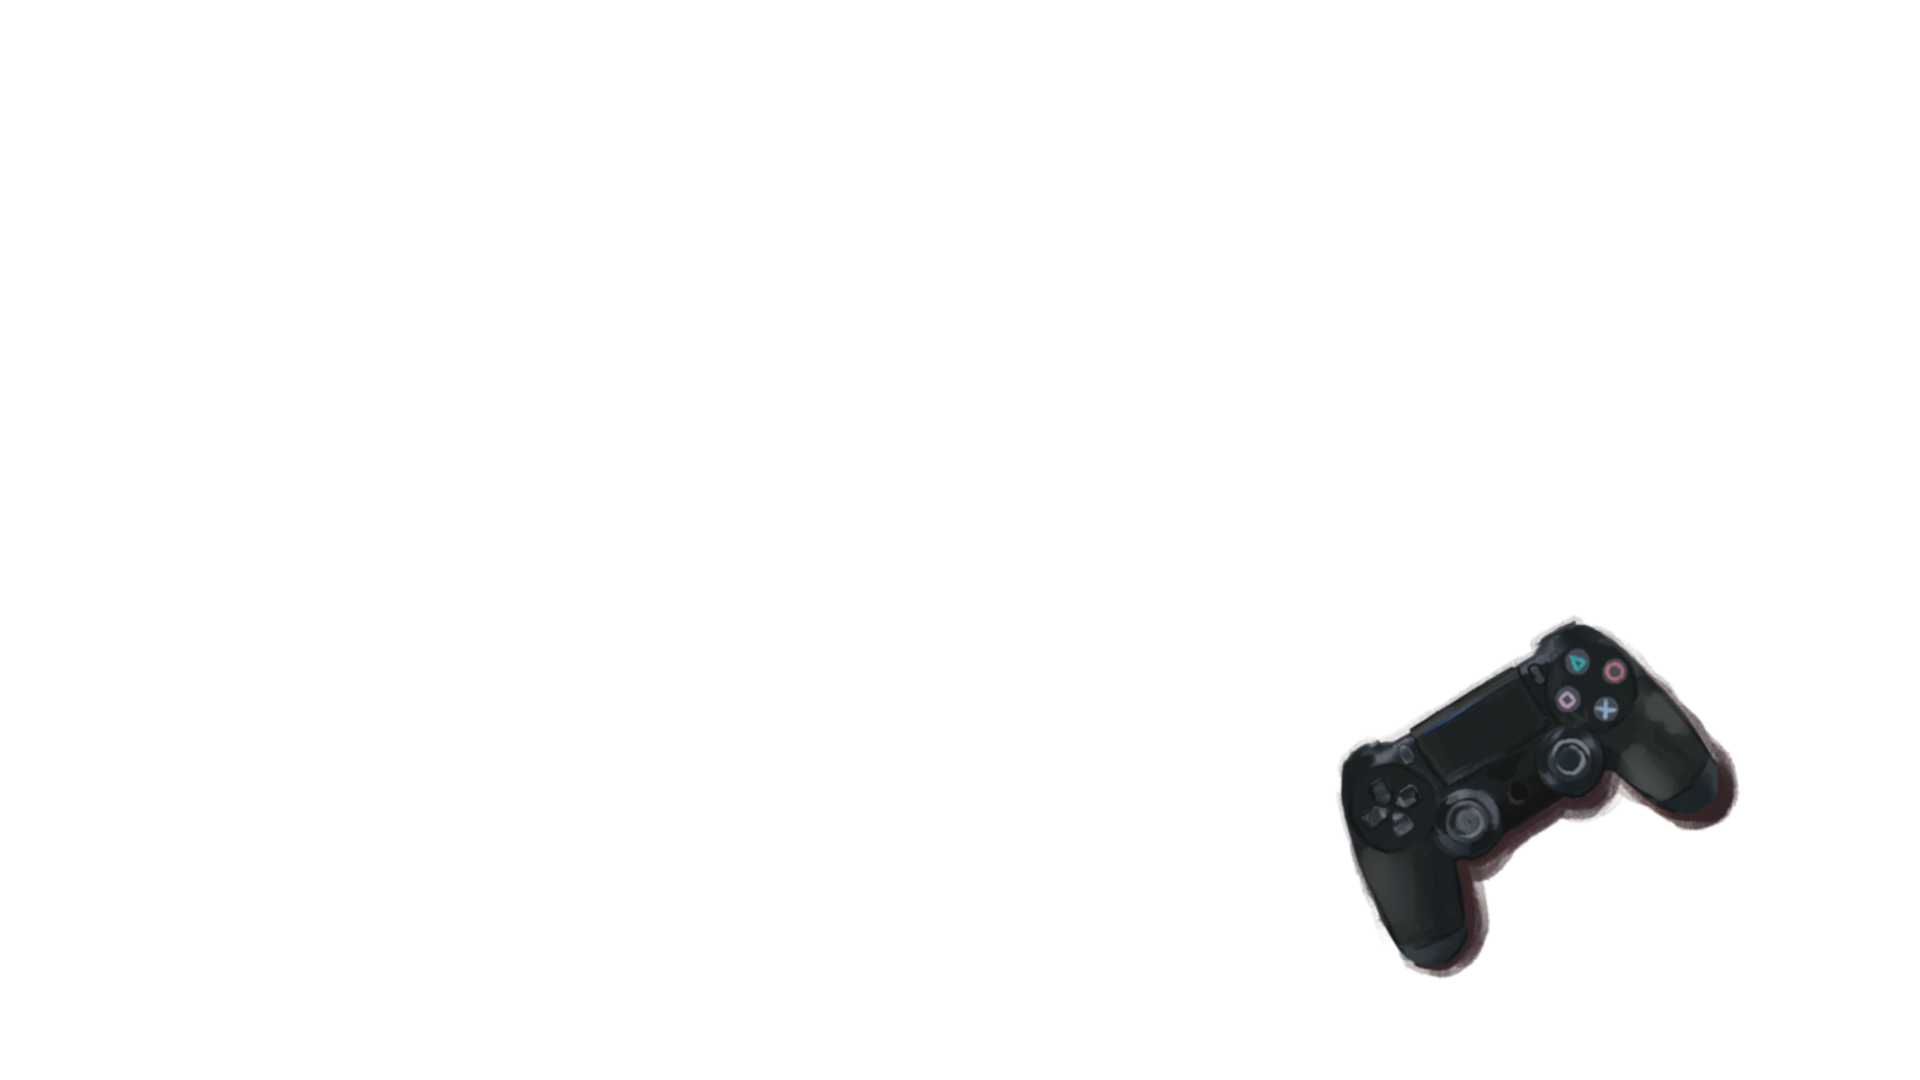
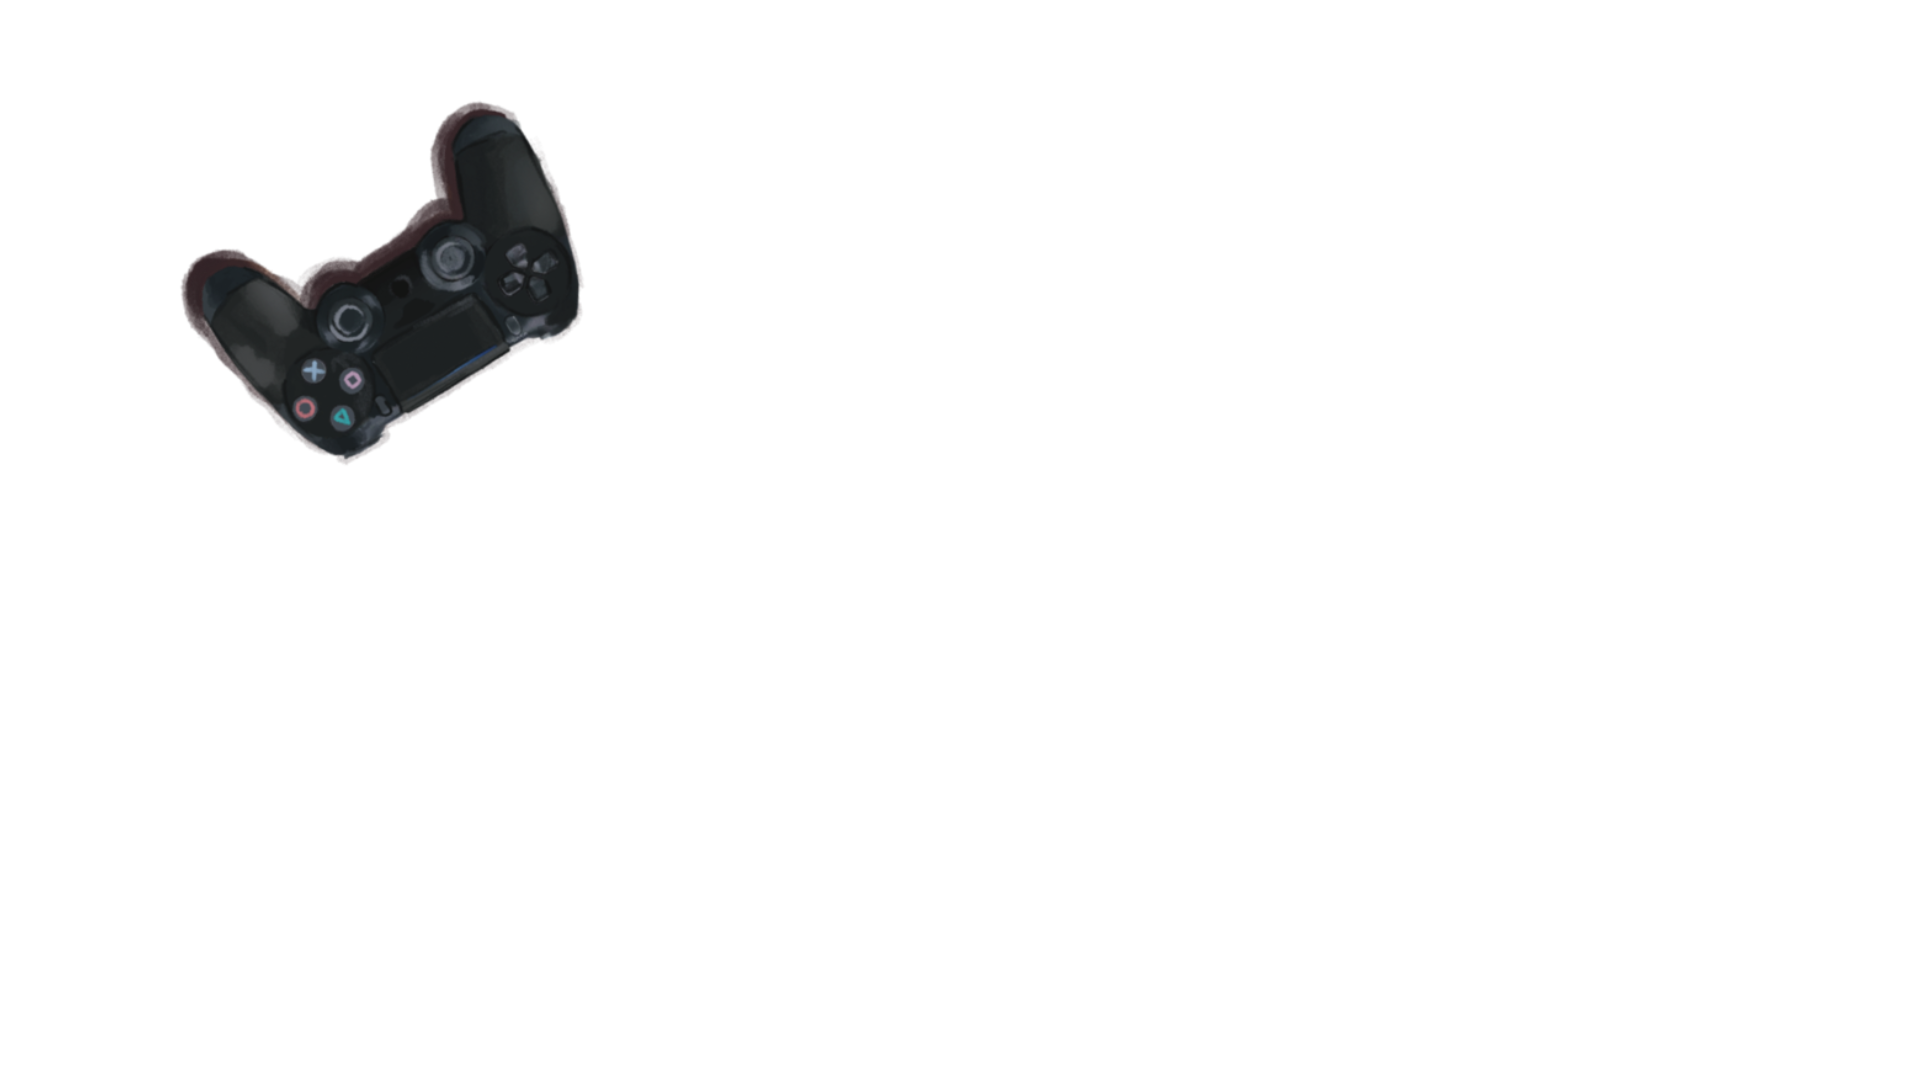
Animation

Changed region(s): [[0.6875, 0.55, 0.9062, 0.9167], [0.0938, 0.0917, 0.3125, 0.4278]]

diff --git a/index.html b/index.html
@@ -14,6 +14,8 @@
 
         <h1 class="ueberschrift">Penpals across the world</h1>
 
+        <div class="animation"></div>
+        
         <div class="ganzerBrief">
             <div class="envback"></div>
             <div class="envfront"></div>
@@ -25,22 +27,24 @@
         <!-- <div class="postauto"></div> -->
     </div>
 
-<!--Szene 2------------------------------------------------------------------------------------------------>
+    <!--Szene 2------------------------------------------------------------------------------------------------>
 
     <div class="scene2"></div>
 
-<!--Szene 3------------------------------------------------------------------------------------------------>
+    <!--Szene 3------------------------------------------------------------------------------------------------>
 
     <div class="scene3">
-        <div class="ihrTisch"></div>
+        <div class="bg"></div>
+        <div class="controller"></div>
+
     </div>
 
 
-<!--Szene 4------------------------------------------------------------------------------------------------>
+    <!--Szene 4------------------------------------------------------------------------------------------------>
 
     <div class="scene4"></div>
 
-<!--Szene 5------------------------------------------------------------------------------------------------>
+    <!--Szene 5------------------------------------------------------------------------------------------------>
 
     <div class="scene5">
         <div class="container">
@@ -50,7 +54,7 @@
         </div>
     </div>
 
-<!--Skript------------------------------------------------------------------------------------------------>
+    <!--Skript------------------------------------------------------------------------------------------------>
 
     <script src="https://cdn.jsdelivr.net/npm/gsap@3.12.5/dist/gsap.min.js"></script>
     <script src="https://cdn.jsdelivr.net/npm/gsap@3.12.5/dist/ScrollTrigger.min.js"></script>

diff --git a/styles.css b/styles.css
@@ -78,11 +78,31 @@ font-size: 4rem;
     position: absolute;
 }
 
+.animation{
+    background-image:url(/images/Animation.png);
+    z-index:4;
+   background-size: cover;
+   height: 1080px;
+   position:absolute;
+}
 
 /* Szene 3------------------------------- */
 .scene3{
     background-image: url(images/tisch_aiko/backround.png);
     background-size: cover;
+    
+}
+
+.controller{
+    background-image: url(images/tisch_aiko/Controller.png);
+    height: 1920px;
+    overflow: hidden;
+    
+} 
+.controllerBlink{
+    background-image: url(images/tisch_aiko/controllerBlink.png);
+    height: 1920px;
+    
 }
 /* Szene 5 ------------------------------------------------------------------------------------------------*/
 

diff --git a/script.js b/script.js
@@ -17,10 +17,11 @@ const tlBrief = gsap.timeline({
     }
 })
 
-tlBrief.to('.ueberschrift', { opacity: 0, duration: 5 });
+tlBrief.to('.ueberschrift,.animation', { opacity: 0, duration: 5 });
 tlBrief.to('.ganzerBrief', { x: 475, duration: 10 });
 tlBrief.to('.letter', { y: -950, duration: 15, end: '+=00000' });
 tlBrief.to('.envfront, .envback', { opacity: 0, duration: 4 });
+tlBrief.to('.ganzerBrief', { x: -750 });
 tlBrief.to('.postauto', {  x: 1800, duration: 15})
 
 // ------------------------------------------------------------------------
